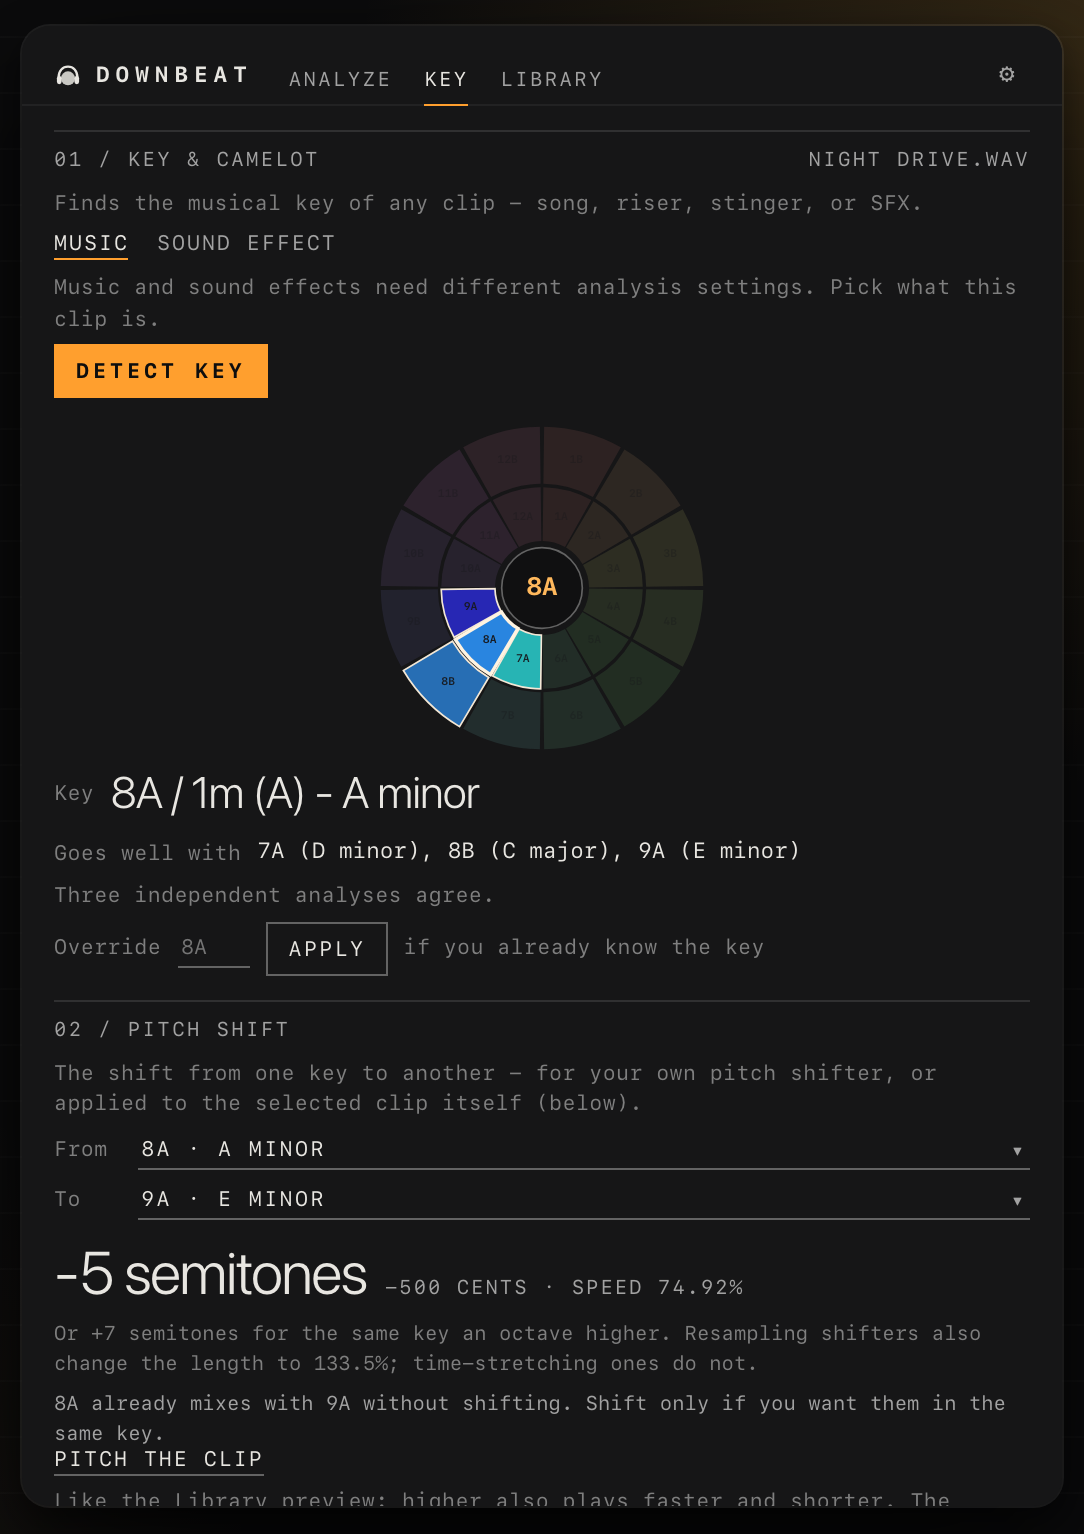
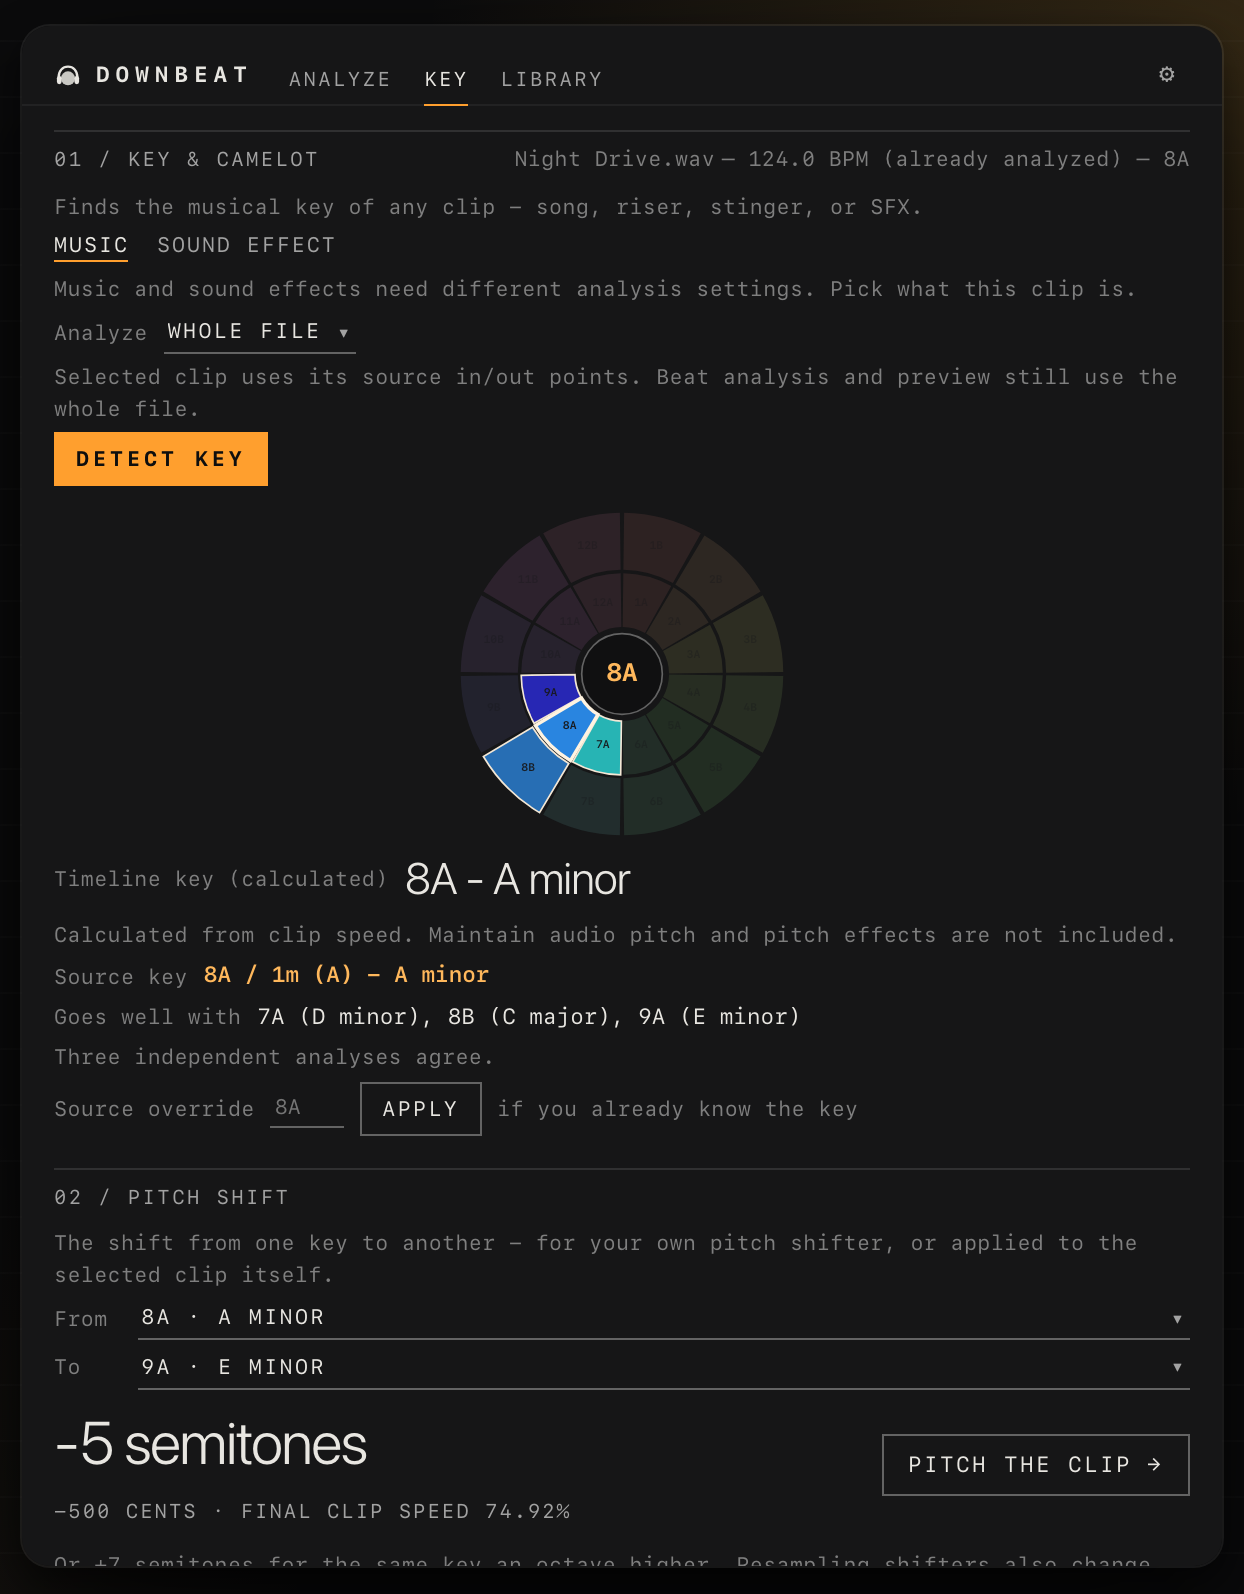
Current screenshots; README and guides match the 1.0.4 panel
- New screenshots of the Analyze, Key and Library tabs.
- README: Key section covers the analysis scope, the timeline key and the
  source override; new FAQ answers on cutting music, joining two songs, tonal
  sound effects and a typical workflow; file-name examples that are read as
  written; the code table lists every module.
- Guides: the Refined hint for hard tracks, the update check in the offline
  answer, a clearer heading for the analysis scope.

diff --git a/README.md b/README.md
@@ -152,17 +152,22 @@ to the beat takes minutes.
 
 ### Key
 
-Musical key in Camelot and note names from three opinions (sound effects get
-a key only when they have a clear pitch). A pitch shift
-calculator, and "Pitch the clip" retimes the clip itself to another key. Your
-audio is never rewritten. When a clip plays at another speed, Analyze and Key
-also show the tempo and the key as they sound on the timeline.
+Musical key in Camelot and note names. For music three analyses vote; for a
+riser or a hit, pick **Sound effect** and the analysis is tuned for short
+sounds (there the key is a hint). A pitch shift calculator gives semitones,
+cents and speed for your own pitch shifter, and **Pitch the clip** retimes the
+clip itself to another key, like a sampler. Your audio is never rewritten.
 
-Choose the whole source or the selected source interval for Detect key. Save a
-source override when you know the answer. The main result, wheel and matching
-follow the selected clip's calculated playback key; source key stays separate.
-Consecutive pitch shifts compose with the current speed. Pitched copies have
-separate Downbeat markers, preserving original and editor markers.
+- **Whole file or Selected clip.** Detect the key of the whole song, or only
+  of the part the clip uses.
+- **Timeline key.** The big result, the wheel, the keys that fit, Match clip
+  and In key use the key the clip plays at on the timeline, worked out from
+  its speed. The file's own key stays visible as **Source key**.
+- **Source override.** Type the key if you already know it; **Use detected
+  key** brings the analysis back.
+- **Pitch the clip** starts from the clip's current speed, so two +2 shifts
+  give +4. The pitched clip starts without Downbeat's markers (analyze it
+  again); your own markers and the original's stay.
 
 </td>
 <td width="42%" valign="top">
@@ -200,11 +205,11 @@ shrinks to the sounds that fit it.
   row says *key agreed* when at least two of them gave it, and *key uncertain*
   (in red) when all three differed, so you know which ones to check by ear.
 - **Names that already say the key.** Many sample packs put it in the file name
-  (`Pad Am`, `Bass Fm 128 BPM`, `Key Emaj`, `8A`). Downbeat reads it, trusts it
+  (`Pad Amin`, `Bass Fm 128 BPM`, `Key Emaj`, `8A - 128 - …`). Downbeat reads it, trusts it
   over its own guess, and marks the row *from the file name*, so you know which
-  keys come straight from the pack. Those files are ready instantly, with no
-  analysis.
-- **Not every sound effect has a key.** Whooshes, impacts, footsteps, wind
+  keys come straight from the pack. A file whose name gives everything (the key,
+  plus the tempo for music) is ready instantly, with no analysis.
+- **Not every sound effect has a key.** Most whooshes, footsteps, wind
   or rain are noise, not notes: they show "no clear pitch" and a key search
   skips them. Only tonal sounds (risers, drones, stingers, pads, bass hits)
   get a key, and even then it is a hint to check by ear.
@@ -287,13 +292,63 @@ shows you the tempo, the bar markers and the key.
 <details>
 <summary><b>Why use sound effects that are in key?</b></summary>
 
-A lot of effects have a pitch: risers, booms, stingers, drones. If the pitch
-doesn't fit the music, you hear that something is off, even if you can't tell
-what. In key, the effect sits inside the track instead of on top of it.
+A lot of effects have a pitch: risers, booms, stingers, drones; even a deep
+impact can carry a note. An effect can be right on the beat and still sound
+wrong: if its note doesn't fit the key of the music, you hear that something
+is off, even if you can't tell what. In key, the effect sits inside the track
+instead of on top of it.
 
-The Library shows the key of every effect, can show only the ones that fit your
-song, and can pitch an effect into its key. Effects with no pitch, like clicks,
-are left out of this.
+The Library shows the key of every tonal effect, can show only the ones that
+fit your song (**Match clip**), and can pitch an effect into its key
+(**In key**). Noise-like sounds, such as most whooshes, footsteps, wind or
+rain, have no clear note: Downbeat tells them apart and shows "no clear
+pitch" instead of a made-up key.
+</details>
+
+<details>
+<summary><b>How do I cut music so the edit can't be heard?</b></summary>
+
+Five rules that work for most songs:
+
+1. **Stay on the beat.** When you join two parts of the same song, keep both
+   on the beat. Even a small shift is heard.
+2. **Cut on a downbeat.** A cut on the "1" of a bar usually sounds the most
+   natural. Take it as a guide, not a strict rule.
+3. **Keep the phrases.** Music is not just beats: it is built of phrases, in
+   many modern songs 4, 8 or 16 bars long. A cut in the middle of a phrase
+   sounds wrong even on the beat; cut where one phrase ends and the next
+   begins.
+4. **Use fades.** Many songs already have a riser or a fill before a new
+   part, and a fade over it hides the join.
+5. **Add a short crossfade.** Two parts that are perfectly on the beat can
+   still click where they meet, because the waveform jumps from one level to
+   another. A very short crossfade removes the click.
+
+Downbeat helps with the first three: markers on every bar or beat, a click
+track to check them by ear, and bar markers to count phrases. In Premiere Pro,
+turn on **Show Audio Time Units** in the Timeline panel menu and choose
+**Timing → Exact**: the cut can then fall between video frames, right on the
+beat.
+</details>
+
+<details>
+<summary><b>How do I join two different songs?</b></summary>
+
+Sometimes one song can't carry the whole video, for example a calm intro and
+then an energetic part. Finding two good songs is not enough; they have to
+sound good together. Check two things:
+
+- **Tempo (BPM).** Close tempos keep the pulse going across the join.
+  Analyze gives you the BPM of each song.
+- **Key.** Songs in the same key, or in a neighbouring key on the Camelot
+  wheel, blend; others can clash. Detect key shows the key and the keys that
+  go with it, so you have more choices than one exact key.
+
+Stock music sites often list the key and BPM. For your own music, add the
+folder to the **Library**, select the song you are cutting and press
+**Match clip** to see the tracks that fit. Matching BPM and key does not
+promise a perfect join: phrases, mood and arrangement still matter, and the
+five rules above still apply.
 </details>
 
 <details>
@@ -307,6 +362,25 @@ need any music theory.
 </details>
 
 ### Using Downbeat
+
+<details>
+<summary><b>Where does Downbeat fit in a typical project?</b></summary>
+
+A common way to work on a motion design or edit project: cut the music in
+Premiere Pro first and build an animatic (it shows the client the pacing:
+where the video speeds up, pauses or changes mood), animate in After Effects,
+then come back to Premiere Pro for the sound design and the mix.
+
+- **Cutting the music:** Analyze puts markers on the bars and beats, the
+  click track lets you check them, and Detect key with the Library helps you
+  pick a second song that fits.
+- **Sound design:** the Library finds sound effects by type and key, plays
+  them already pitched into the song's key, and adds them at the playhead.
+
+Premiere Pro is the better place for the music work: besides its audio mixer
+and VST plugins it has **Show Audio Time Units**, which lets you cut audio
+between video frames, down to single audio samples.
+</details>
 
 <details>
 <summary><b>How does the analysis work?</b></summary>
@@ -612,7 +686,7 @@ should go too.
 
 | Where | What |
 |---|---|
-| `CSXS/manifest.xml` | the CEP manifest (Premiere Pro 13+, After Effects 18+, Node on) |
+| `CSXS/manifest.xml` | the CEP manifest (CSXS 11, so Premiere Pro and After Effects 2021+; Node on) |
 | `index.html`, `css/style.css` | the panel's markup and its one stylesheet |
 | `js/main.js` | starts the panel; Analyze and Key tabs; selection poll; shared state |
 | `js/bridge.js` | calls into the host scripts and runs the analysis workers |
@@ -621,6 +695,9 @@ should go too.
 | `js/beat-preview.js` | the Analyze tab's waveform player with the downbeat click |
 | `js/self-test.js` | the full self-test used by `scripts/test-self-test.js` (hidden in the UI) |
 | `js/analyze.js`, `js/cuesheet.js`, `js/place.js` | analysis results -> marker times -> placement |
+| `js/analysis-cache.js` | reuse of identical tempo passes on the same decoded audio |
+| `js/metronome.js`, `js/audio-output.js` | the metronome track; where finished audio is written, never over an existing file |
+| `js/update-check.js` | the opt-in release check, the panel's only network code |
 | `js/sound-library.js`, `js/sfx-search.js`, `js/ucs-data.js` | Music / SFX library data and search (UCS) |
 | `js/lib-preview.js`, `js/audio.js` | the preview player, pitch / reverse / fades, decoding |
 | `js/camelot.js`, `js/pitch.js`, `js/key-combine.js`, `js/wheel.js` | keys, Camelot wheel, pitch calculator |

diff --git a/GUIDE.es.md b/GUIDE.es.md
@@ -98,8 +98,8 @@ Escucha los marcadores: si no caen en los tiempos, pulsa la otra palabra.
 Básica vuelve al instante; Afinada ejecuta de nuevo el segundo detector
 (unos segundos).
 
-En una pista difícil de leer, el panel sugiere **Probar análisis
-alternativo**; **Volver al análisis original** lo deshace.
+En una pista difícil de leer, la línea bajo **Cuadrícula** lo indica y
+sugiere **Afinada**, que ahí suele ser más precisa.
 
 ## Tipos de marcador
 
@@ -500,7 +500,10 @@ elección del tiempo fuerte puede parecer equivocada con seguridad en vez
 de dudosa; ahí es más seguro Tipo: Compases + tiempos.
 
 **¿Se sube alguna vez mi audio o los datos del proyecto?**
-No. Todas las funciones se ejecutan por completo en tu equipo.
+No. El análisis y la Biblioteca se ejecutan por completo en tu equipo. La
+única petición de red es la comprobación de actualizaciones (**Comprobar
+ahora** o los avisos opcionales), que pide a GitHub la última versión y no
+envía nada sobre tu audio ni tus proyectos.
 
 **¿Dónde guarda Downbeat sus datos y cómo los quito?**
 En la carpeta Documentos/Downbeat: tus ajustes, la biblioteca (qué
@@ -555,7 +558,7 @@ La corrección de tempo pertenece al análisis que la inició. Si seleccionas ot
 
 Los resultados guardados se comprueban por tamaño y fecha de modificación. Reemplazar el archivo invalida sus resultados; los resultados guardados por una versión anterior se conservan y toman el tamaño y la fecha del archivo al usarse por primera vez. Los cambios durante el análisis descartan el resultado.
 
-### Intervalo de análisis y valores confirmados
+### Intervalo de análisis y tonalidad manual
 
 En Key, elige **Archivo completo** o **Clip seleccionado**. El segundo usa solo
 el intervalo de entrada/salida en el archivo de origen y guarda cada recorte por

diff --git a/GUIDE.md b/GUIDE.md
@@ -89,8 +89,8 @@ second detector was applied) or **Basic** (the usual result only). Listen
 to the markers: if they miss the beats, click the other word. Basic comes
 back at once; Refined runs the second detector again (a few seconds).
 
-On a track that is hard to read, the panel suggests **Try alternative
-analysis**; **Revert to original analysis** undoes it.
+On a track that is hard to read, the line under **Beat grid** says so and
+suggests **Refined**, which is often more accurate there.
 
 ## Marker types
 
@@ -450,7 +450,10 @@ the downbeat pick can look confidently wrong rather than uncertain;
 Type: Bars + beats is a safer choice there.
 
 **Is my audio or project data ever uploaded anywhere?**
-No. Every feature runs entirely on your machine.
+No. Analysis and the Library run entirely on your machine. The only
+network request is the update check (**Check now**, or the optional
+notifications), which asks GitHub for the latest release and sends nothing
+about your audio or projects.
 
 **Where does Downbeat keep its data, and how do I remove it?**
 In the folder Documents/Downbeat: your settings, the library (which folders
@@ -503,7 +506,7 @@ Tempo correction belongs to the analysis that started it. If you select another 
 
 Cached results are checked against file size and modification time. Replacing the file invalidates its results; results saved by an earlier version are kept and take the file's size and date on first use. Changes during analysis are rejected.
 
-### Analysis scope and confirmed values
+### Analysis scope and source override
 
 In Key, choose **Whole file** or **Selected clip**. Selected clip analyzes only
 its source in/out interval; changing the trim uses a separate result. This does
